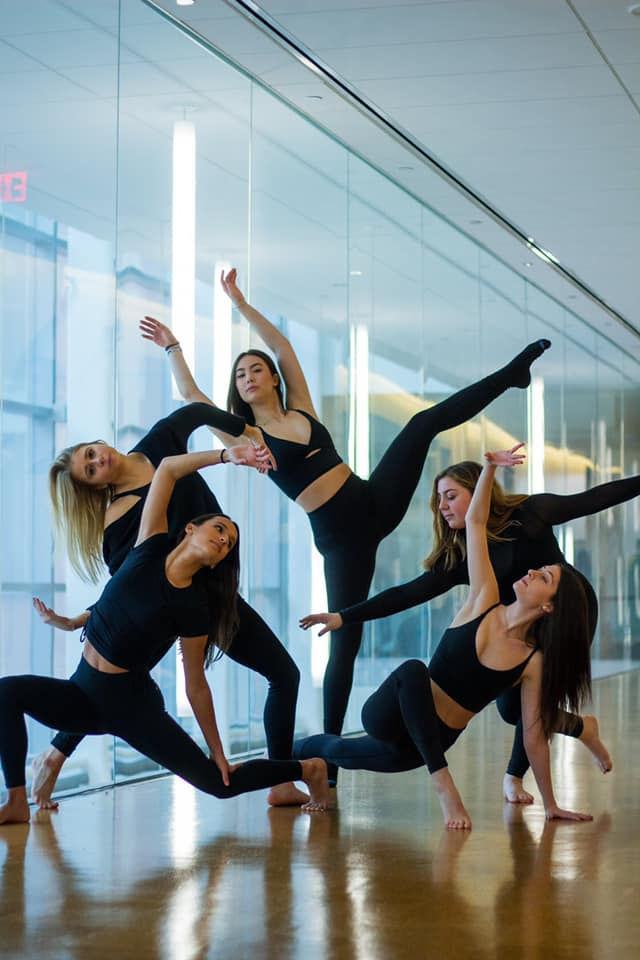
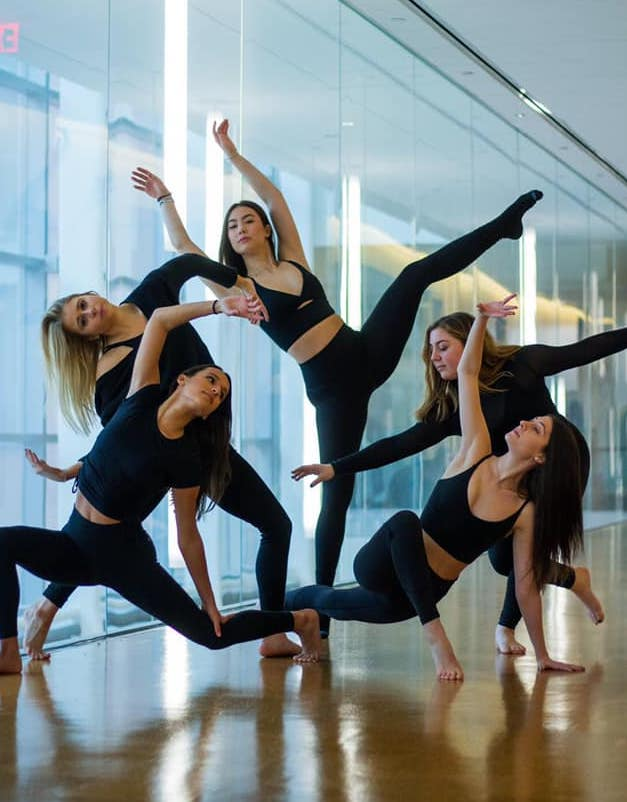
new images & css/html updates

diff --git a/css/style.css b/css/style.css
@@ -126,40 +126,10 @@ footer{
     text-align: center;
 /* } */
 
-.introPage{
-    display: grid;
-    /* position: relative; */
-    text-align: center;
-    grid-template-columns: 1fr 3fr 1fr;
-    grid-row-gap: 10px;
-} 
-
-.smallGroup{
-    grid-column: 1/ -1;
-    max-height: 700px;
-    overflow: hidden;
-    grid-row: 1 /  -1;  
-}
-
-/* .smallGroup img{
-    align-self: center;
-} */
 .aboutCadence{
-    /* position: absolute;
-    margin: 0 auto; */
-    background-color: rgba(255, 255, 255, .85);
-    padding: 30px;
-    color: black;
-    grid-column: 2 / span 1;
-    grid-row: 1 / span 1;
-    align-self: center;
-    border-radius: 10px;;
-}  
- .about2{
-    grid-column: 2/span 1;
     border: solid white 2px;
     border-radius: 10px;
- }
+}
 
 
 h2{
@@ -185,16 +155,36 @@ h2{
 
 .videos2021{
     display: grid;
-    grid-template-columns: 1fr 3fr 1fr;
+    grid-template-columns: 1fr 1fr 1fr;
     grid-template-rows: 1fr;
 }
 
 .resolution{
-    grid-column: 1 / -1;
+    grid-column: 1 / span 1;
     grid-row: 1 / span 1;
 }
 .resolutionCaption{
+    grid-column: 1 / span 1;
+    grid-row: 1/ span 1;
+    align-self: center;
+}
+
+.dirtyafs{
     grid-column: 2 / span 1;
+    grid-row: 1 / span 1;
+}
+.dirtyAFCaption{
+    grid-column: 2 / span 1;
+    grid-row: 1/ span 1;
+    align-self: center;
+}
+
+.inhale{
+    grid-column: 3 / span 1;
+    grid-row: 1 / span 1;
+}
+.inhaleCaption{
+    grid-column: 3 / span 1;
     grid-row: 1/ span 1;
     align-self: center;
 }
@@ -274,9 +264,7 @@ input[type=submit] {
     justify-content: space-around;
     }
 
-    .grid-container img:hover{
-    opacity: 0.75;
-    }
+    
 
     /* .smallGroup{
         min-height: 500px;
@@ -298,7 +286,50 @@ input[type=submit] {
         width: 100%;
     }
 
+    .introPage{
+        display: grid;
+        /* position: relative; */
+        text-align: center;
+        grid-template-columns: 1fr 1fr;
+        grid-row-gap: 10px;
+        align-items: center;
+        grid-column-gap: 10px;
+        grid-row-gap: 10px;
+        justify-items: center;
+    } 
     
+    .smallGroup{
+        grid-column: 1/ span 1;
+        max-height: 500px;
+        align-items: center;
+        overflow: hidden;
+        object-fit: cover;
+        grid-row: 1 /  span 2; 
+        
+    }
+    /* .smallgroup2{
+        grid-column: 2/span1;
+        grid-row: 2/span1;
+    } */
+    
+    .aboutCadence{
+        /* position: absolute;
+        margin: 0 auto; */
+        background-color: rgba(255, 255, 255, .85);
+        padding: 30px;
+        color: black;
+        grid-column: 2 / span 1;
+        grid-row: 1 / span 1;
+        align-self: center;
+        border-radius: 10px;
+        border
+    }  
+     .about2 {
+        grid-column: 2/span 1;
+        grid-row: 2 / span 1;
+        border: solid white 2px;
+        border-radius: 10px;
+     }
 
     .aboutUsText img{
         width: 50%;
@@ -329,7 +360,7 @@ input[type=submit] {
 
 
 @media all and (min-width:1200px){
-    /* still figuring out what to do with desktop view flex nav */
+    
     header {
         flex-direction: row;
         justify-content: space-between;
@@ -342,8 +373,23 @@ input[type=submit] {
     h1{
         text-align: left;
     }
-    
-    
+    .introPage{
+        grid-template-columns: 1fr 1fr 1fr;
+        grid-template-rows: 1fr;
+    }
+
+    .smallGroup{
+        grid-column: 2 /span 1;
+    }
+    .aboutCadence{
+        grid-column: 1 / span 1;
+        grid-row: 1 / -1;
+    }
+
+    .about2{
+        grid-column: 3 / span 1;
+        grid-row: 1/-1;
+    }
       .grid-container{
         grid-template-columns: 1fr 1fr 1fr 1fr;
         grid-template-rows: repeat(6, 1fr);
@@ -358,6 +404,11 @@ input[type=submit] {
         
     }
     
+    .grid-container img:hover{
+        opacity: 0.75;
+        }
+
+   
 }
 
 @media screen and (prefers-reduced-motion: reduce){

diff --git a/media.html b/media.html
@@ -42,8 +42,12 @@
                     <h2> 2021 Artistic Videos: Against All Odds</h2>
                         <p class='disclaimer'>Because of the global pandemic, our dancers were unable to put on a live performance for an audience in winter 2021. In effort to still perform for the public, our team put together a series of concept pieces that we were able to film and share via social media.</p>
                         <div class="videos2021">
-                            <a class='resolution' href="https://www.instagram.com/tv/CQpKQ44lywD/?utm_source=ig_web_copy_link"><img height="300px" width="420px" src="images/resolution-cover.png" alt="Resolution dance"></a>
+                            <a class='resolution' href="https://www.instagram.com/tv/CQpKQ44lywD/?utm_source=ig_web_copy_link" target="_blank"><img height="300px" width="420px" src="images/resolution-cover.png" alt="Resolution dance"></a>
                             <p class='resolutionCaption'>Resolution</p>
+                            <a class='dirtyafs' href="https://www.instagram.com/tv/CPzE6IGlUsn/?utm_source=ig_web_copy_link" target="_blank"><img height="300px" width="420px" src="images/dirtyAFs-cover.png" alt="Dirty AF1s dance"></a>
+                            <p class='dirtyAFCaption'>Dirty AF1s</p>
+                            <a class='inhale' href="https://www.instagram.com/tv/CPg_IAIlQfz/?utm_source=ig_web_copy_link" target="_blank"><img height="300px" width="420px" src="images/inhale-cover.png" alt="Dirty AF1s dance"></a>
+                            <p class='inhaleCaption'>Inhale Exhale</p>
                         </div>
                     <h2>2020 Show: Moments</h2>
                         <div class="videos2020">

diff --git a/index.html b/index.html
@@ -38,9 +38,9 @@
         </header>
         <main id="skip">
             <div class = "introPage">
-                <div class = "smallGroup">
-                    <img src="images/small-group.jpg" alt="small group in different dance poses"> 
-                </div>
+               
+                <img class = "smallGroup" src="images/small-group.jpg" alt="small group in different dance poses"> 
+            
                 <div class ="aboutCadence">
                     <p>Cadence was established at the University of Michigan to provide an open space for our campus's dancers. We are a completely student-run contemporary dance group and collaborate to choreograph and perform our own pieces for the campus community. In addition to numerous appearances on campus, we put on an annual show to highlight our work and that of talented guest performance groups. </p>
                 </div>
@@ -48,6 +48,8 @@
                 <div class = "about2">
                     <p>Cadence is a low commitment group that produces high-quality performances. We provide an environment for artistry and performance. Cadence presents a balance between the rigors of studies and freedom of movement.</p>
                 </div>
+
+                    <!-- <img class="smallGroup2" src="images/small-group-monsoon.jpeg" alt="five dancers in leaning over and one with leg in air"> -->
             </div>     
             
             

diff --git a/members.html b/members.html
@@ -42,7 +42,7 @@
                 <p>Cadence members come from a wide variety of colleges and majors across campus, as well as from all across the country! </p>
                 <p>Get to know our members below!</p>
                 <div class = "grid-container">
-                    <div class="Alyssa"> <img src="images/alyssa.jpg" alt="alyssa headshot"><p>Alyssa</p><p>Los Angeles, CA</p><p>Dance</p></div>
+                    <div class="Alyssa"> <img src="images/alyssa.jpg" alt="alyssa headshot"><div class="flip"><p>Alyssa</p><p>Los Angeles, CA</p><p>Dance</p></div></div>
                     <div class="Amber"><img src="images/amber.jpeg" alt="amber headshot"><p>Amber</p><p>Sterling Heights, MI</p><p>Biology</p></div>
                     <div class="Anna"><img src="images/anna.jpeg" alt="anna headshot"><p>Anna</p><p>Grand Rapids, MI</p><p>Communication and Media Studies</p> </div>
                     <div class="Bella"><img src="images/bella.jpeg" alt="bella headshot"><p>Bella</p><p>Rochester, MI</p><p>Communication and Media Studies</p></div>
